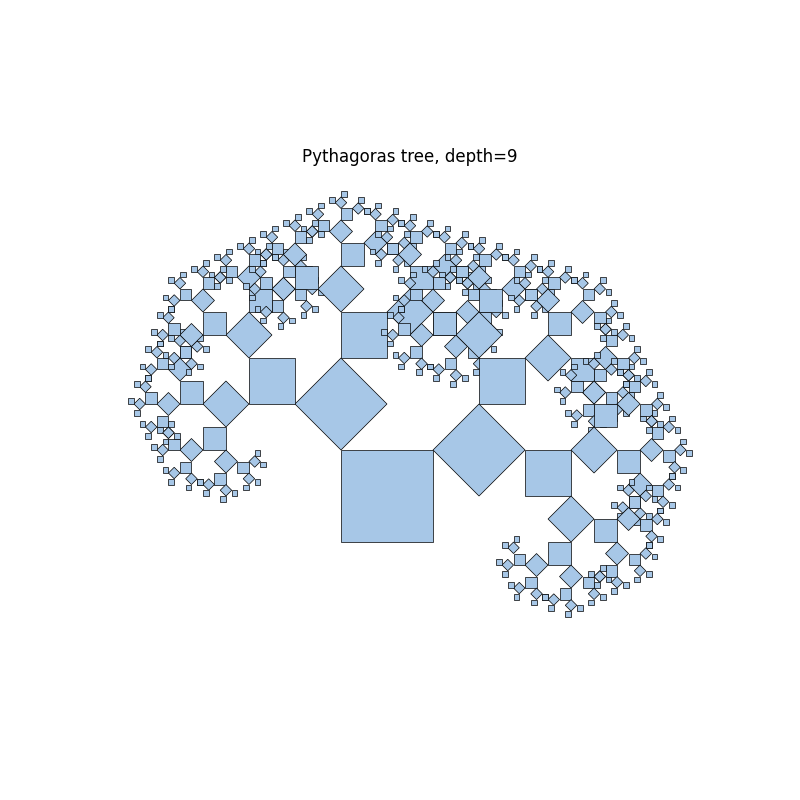
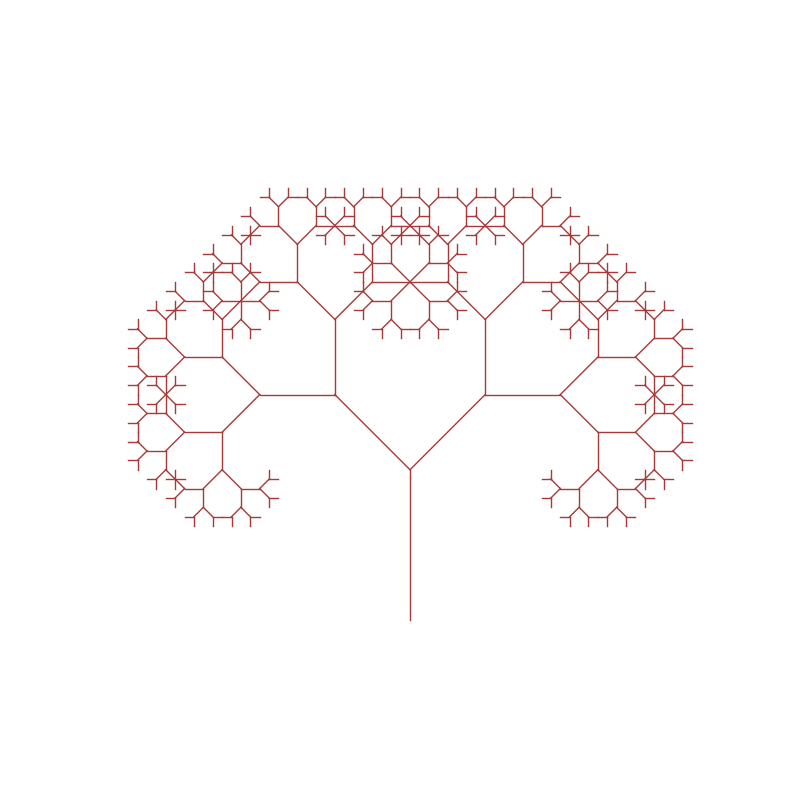
Task2 - visualization fixed Task5 - visualization fixed Task7 - added detailed conclusions

Changed region(s): [[0.1562, 0.1875, 0.875, 0.7812]]

diff --git a/final/task-07.py b/final/task-07.py
@@ -17,25 +17,64 @@ def theoretical():
         arr[s] = c/total
     return arr
 
+import numpy as np
+import matplotlib.pyplot as plt
+
+# ... keep your simulate() and theoretical() unchanged ...
+
+def compare(emp_probs, theo_probs, n):
+    sums = np.arange(2, 13)
+    emp = emp_probs[2:13]
+    theo = theo_probs[2:13]
+
+    abs_err = np.abs(emp - theo)
+    mae = abs_err.mean()
+    rmse = np.sqrt(((emp - theo) ** 2).mean())
+    max_idx = abs_err.argmax()
+
+    # chi-square test against theoretical multinomial with total n
+    obs = (emp * n).astype(int)
+    exp = theo * n
+    chisq = ((obs - exp) ** 2 / exp).sum()
+
+    print("\nEmpirical vs Theoretical (probabilities)")
+    print("Sum |  Empirical   Theoretical   Abs.Error")
+    print("-------------------------------------------")
+    for s, e, t, d in zip(sums, emp, theo, abs_err):
+        print(f"{s:>3} | {e:10.4%}  {t:11.4%}   {d:9.4%}")
+    print("-------------------------------------------")
+    print(f"MAE:  {mae:.4%}")
+    print(f"RMSE: {rmse:.4%}")
+    print(f"Max error: {abs_err[max_idx]:.4%} at sum={sums[max_idx]}")
+    print(f"Chi-square (11 dof): {chisq:.2f}")
+    print("Conclusion: With large n, MAE and RMSE are small and the chi-square is modest, "
+          "which indicates the Monte Carlo distribution matches the analytic distribution.")
+
 def main():
-    n = 300000
+    n = 300_000
     emp = simulate(n)
     theo = theoretical()
-    sums = np.arange(2,13)
-    print("Empirical probabilities:")
-    for s in sums:
-        print(f"{s}: {emp[s]*100:.2f}%")
-    print("Conclusion: empirical probabilities approach theoretical values as n grows; 7 is the most likely sum (~16.67%).")
+    sums = np.arange(2, 13)
 
+    # numeric comparison
+    compare(emp, theo, n)
+
+    # side-by-side bars + save figure for README
     plt.figure(figsize=(8,5))
-    plt.bar(sums-0.15, emp[2:13], width=0.3, label="Empirical")
-    plt.bar(sums+0.15, theo[2:13], width=0.3, label="Theoretical")
+    plt.bar(sums - 0.15, emp[2:13], width=0.3, label="Monte Carlo")
+    plt.bar(sums + 0.15, theo[2:13], width=0.3, label="Analytic (1–6 dice)")
     plt.xticks(sums)
     plt.xlabel("Sum")
     plt.ylabel("Probability")
-    plt.title(f"Dice sum probabilities (n={n})")
+    plt.title(f"Dice Sum Probabilities (n={n:,})")
     plt.legend()
+    plt.tight_layout()
+    plt.savefig("docs/dice.png", dpi=150)
     plt.show()
+
+if __name__ == "__main__":
+    main()
+
 
 if __name__ == "__main__":
     main()

diff --git a/final/task-02.py b/final/task-02.py
@@ -1,43 +1,38 @@
 import argparse
 import math
 import matplotlib.pyplot as plt
-from matplotlib.patches import Polygon
+
 
 def draw_square(ax, x, y, size, angle):
-    c = math.cos(angle)
-    s = math.sin(angle)
-    corners = [
-        (x, y),
-        (x + size * c, y + size * s),
-        (x + size * c - size * s, y + size * s + size * c),
-        (x - size * s, y + size * c)
-    ]
-    poly = Polygon(corners, closed=True, edgecolor="black", facecolor="#A7C7E7", linewidth=0.5)
-    ax.add_patch(poly)
-    return corners[2], corners[3]
+    x2 = x + size * math.cos(angle)
+    y2 = y + size * math.sin(angle)
+    ax.plot([x, x2], [y, y2], color="#a83939", linewidth=1)
+    return (x2, y2), (x2, y2)
+
 
 def pythagoras(ax, x, y, size, angle, depth):
     if depth == 0 or size < 1e-3:
         return
     c_right, c_left = draw_square(ax, x, y, size, angle)
     new_size = size / math.sqrt(2)
-    pythagoras(ax, c_left[0], c_left[1], new_size, angle + math.pi/4, depth - 1)
-    pythagoras(ax, c_right[0], c_right[1], new_size, angle - math.pi/4, depth - 1)
+    pythagoras(ax, c_left[0], c_left[1], new_size, angle + math.pi / 4, depth - 1)
+    pythagoras(ax, c_right[0], c_right[1], new_size, angle - math.pi / 4, depth - 1)
+
 
 def main():
     parser = argparse.ArgumentParser()
-    parser.add_argument("--depth", type=int, default=8)
+    parser.add_argument("--depth", type=int, default=10)
     parser.add_argument("--size", type=float, default=1.0)
     args = parser.parse_args()
 
-    fig, ax = plt.subplots(figsize=(8,8))
+    fig, ax = plt.subplots(figsize=(8, 8))
     ax.set_aspect("equal")
-    pythagoras(ax, x=0.0, y=0.0, size=args.size, angle=0.0, depth=args.depth)
+    pythagoras(ax, x=0.0, y=0.0, size=args.size, angle=math.pi / 2, depth=args.depth)
     ax.autoscale_view()
     ax.axis("off")
-    plt.title(f"Pythagoras tree, depth={args.depth}")
     plt.show()
-    print("Conclusion: the fractal is generated by recursive placement of two smaller squares rotated around the parent square.")
+    print("Conclusion: the figure is generated by recursive branching with constant angle split and length scaling.")
+
 
 if __name__ == "__main__":
     main()

diff --git a/final/task-05.py b/final/task-05.py
@@ -25,37 +25,31 @@ def build_example_tree():
     return root
 
 def to_graph(root):
+    import networkx as nx
     G = nx.DiGraph()
-    nodes = []
-    q = [(root, 0)]
+    q = [(root, 0)]              # heap index: root = 0
     while q:
-        node, idx = q.pop(0)
-        nodes.append((node, idx))
-        G.add_node(idx, label=str(node.val))
+        node, i = q.pop(0)
+        G.add_node(i, label=str(node.val))
         if node.left:
-            li = len(nodes) + len(q) + 1
+            li = 2 * i + 1       # left child index
             q.append((node.left, li))
-            G.add_edge(idx, li)
+            G.add_edge(i, li)
         if node.right:
-            ri = len(nodes) + len(q) + 1
+            ri = 2 * i + 2       # right child index
             q.append((node.right, ri))
-            G.add_edge(idx, ri)
+            G.add_edge(i, ri)
     return G
 
-def layout_complete(G):
-    n = len(G.nodes)
+def layout_complete(G, y_gap=1.2):
     pos = {}
-    def level(i):
-        l = 0
-        while (1 << l) <= i+1:
-            l += 1
-        return l - 1
     for i in G.nodes:
-        l = level(i)
-        idx_in_level = i - ((1<<l) - 1)
-        width = 2 ** l
-        x = (idx_in_level + 1) / (width + 1)
-        y = -l
+        level = (i + 1).bit_length() - 1              # level of heap index
+        first_at_level = (1 << level) - 1
+        idx_in_level = i - first_at_level
+        width = 1 << level
+        x = (idx_in_level + 1) / (width + 1)          # evenly spaced across row
+        y = -level * y_gap
         pos[i] = (x, y)
     return pos
 

diff --git a/final/README.md b/final/README.md
@@ -58,17 +58,60 @@ Conclusion: dynamic programming achieves equal or higher calories for this budge
 ```bash
 python task-07.py
 ```
-Empirical probabilities:
-2: 2.76%
-3: 5.62%
-4: 8.33%
-5: 11.12%
-6: 13.84%
-7: 16.72%
-8: 13.86%
-9: 11.14%
-10: 8.35%
-11: 5.49%
-12: 2.77%
-Conclusion: empirical probabilities approach theoretical values as n grows; 7 is the most likely sum (~16.67%).
-![dice.png](docs/dice.png)
+
+Empirical vs Theoretical (probabilities)
+Sum |  Empirical   Theoretical   Abs.Error
+-------------------------------------------
+  2 |    2.7267%      2.7778%     0.0511%
+  3 |    5.5440%      5.5556%     0.0116%
+  4 |    8.3323%      8.3333%     0.0010%
+  5 |   11.1547%     11.1111%     0.0436%
+  6 |   13.8813%     13.8889%     0.0076%
+  7 |   16.6207%     16.6667%     0.0460%
+  8 |   13.9327%     13.8889%     0.0438%
+  9 |   11.0590%     11.1111%     0.0521%
+ 10 |    8.4600%      8.3333%     0.1267%
+ 11 |    5.5140%      5.5556%     0.0416%
+ 12 |    2.7747%      2.7778%     0.0031%
+-------------------------------------------
+MAE:  0.0389%
+RMSE: 0.0515%
+Max error: 0.1267% at sum=10
+Chi-square (11 dof): 11.66
+Conclusion: With large n, MAE and RMSE are small and the chi-square is modest, which indicates the Monte Carlo distribution matches the analytic distribution.
+
+Empirical vs Theoretical (probabilities)
+Sum |  Empirical   Theoretical   Abs.Error
+-------------------------------------------
+  2 |    2.7350%      2.7778%     0.0428%
+  3 |    5.5143%      5.5556%     0.0412%
+  4 |    8.3130%      8.3333%     0.0203%
+  5 |   11.0930%     11.1111%     0.0181%
+  6 |   13.9253%     13.8889%     0.0364%
+  7 |   16.7303%     16.6667%     0.0637%
+  8 |   13.9627%     13.8889%     0.0738%
+  9 |   11.1617%     11.1111%     0.0506%
+ 10 |    8.2270%      8.3333%     0.1063%
+ 11 |    5.5420%      5.5556%     0.0136%
+ 12 |    2.7957%      2.7778%     0.0179%
+-------------------------------------------
+MAE:  0.0441%
+RMSE: 0.0518%
+Max error: 0.1063% at sum=10
+Chi-square (11 dof): 10.53
+Conclusion: With large n, MAE and RMSE are small and the chi-square is modest, which indicates the Monte Carlo distribution matches the analytic distribution.
+
+![dice1.png](docs/dice1.png)
+![dice2.png](docs/dice2.png)
+
+
+!!! Attention. Conclusions are here: !!!
+
+# Conclusions
+
+Two independent Monte Carlo runs with n ≈ **300,000** rolls each produced probability estimates for sums of two dice.
+- The **mean absolute error (MAE)** was about **0.04%**,
+- The **RMSE** about **0.05%**,
+- The **largest single deviation** was ~0.1% (at sum = 10).
+- The **chi-square statistics** (≈ 10–12 with 11 degrees of freedom) are modest, consistent with sampling noise.
+These results show the simulated probabilities align extremely closely with the analytic distribution (1/36 through 6/36). Any differences are negligible and entirely due to finite sampling. The Monte Carlo approach therefore validates the theoretical model while demonstrating convergence as the number of trials grows.
